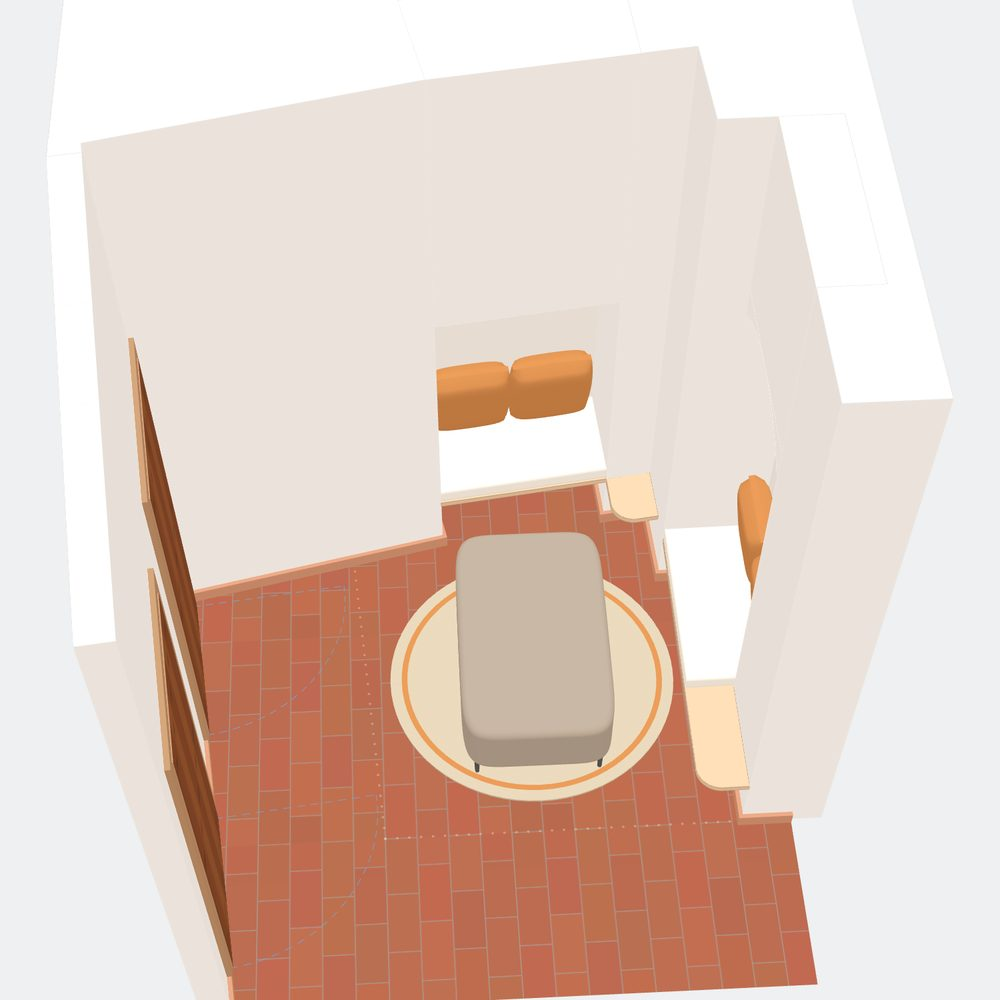
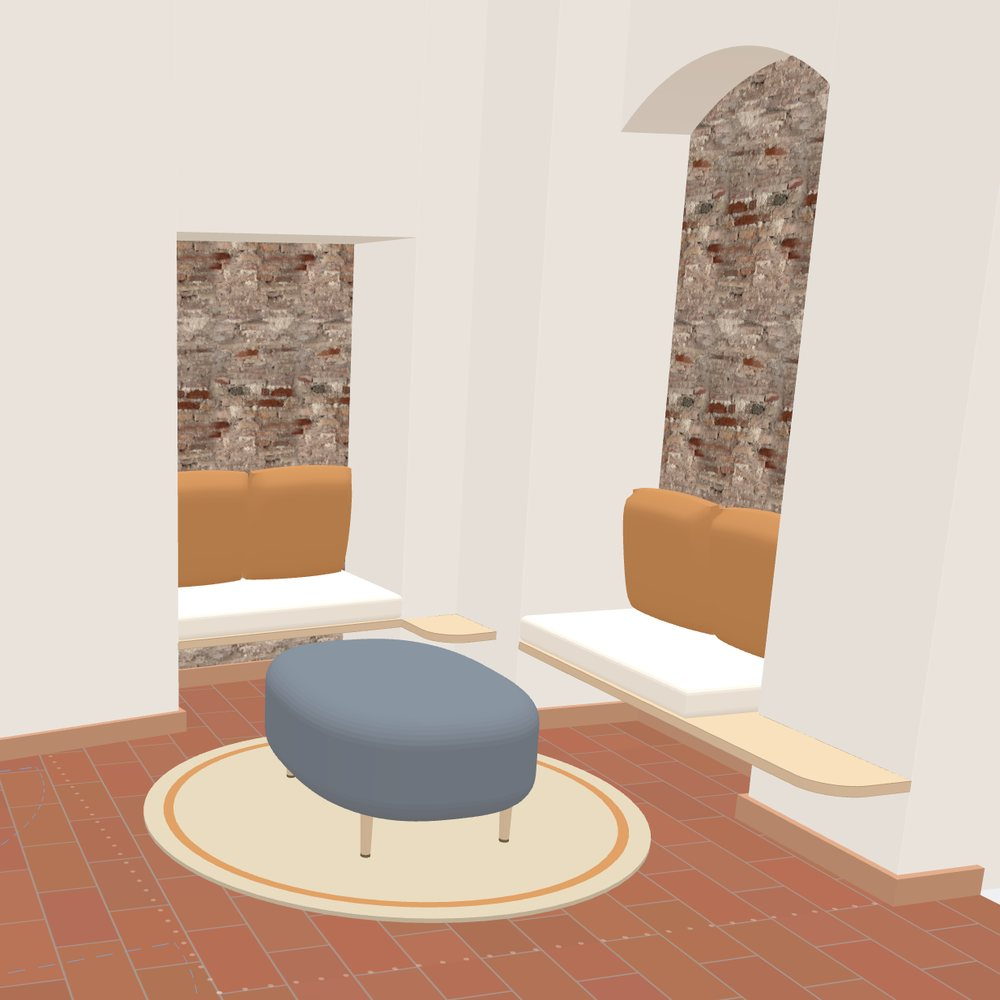
lounge update

diff --git a/index.html b/index.html
@@ -115,7 +115,7 @@ footer{margin-top:clamp(3.5rem,7vw,5.5rem);padding:1.5rem 0 3.5rem;border-top:1p
 
       <a class="tile" href="/tarifa-lounge/">
         <div class="media">
-          <img src="/img/tarifa.jpg" width="1000" height="1000" loading="lazy" alt="A 3D model of a loft lounge in Tarifa: brick floor, round rug, ottoman and cushions.">
+          <img src="/img/tarifa.jpg" width="1000" height="1000" loading="lazy" alt="A 3D model of a loft lounge in Tarifa: two brick-backed alcoves with cushioned benches, an ottoman on a round rug, and a terracotta floor.">
         </div>
         <p class="eyebrow">Tarifa, Spain · 3D</p>
         <h2>Tarifa Lounge</h2>
